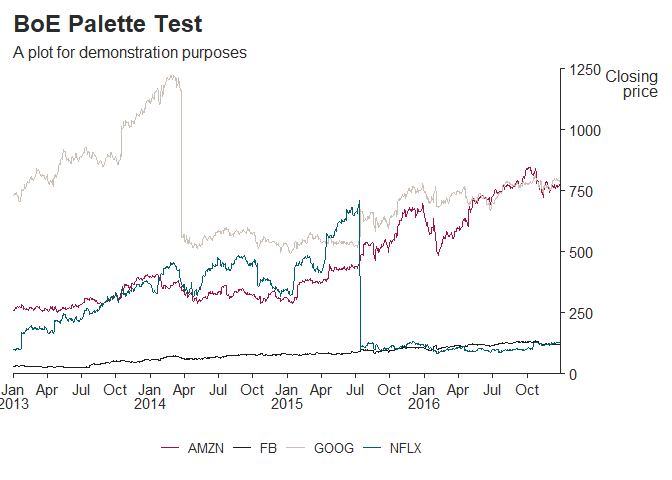
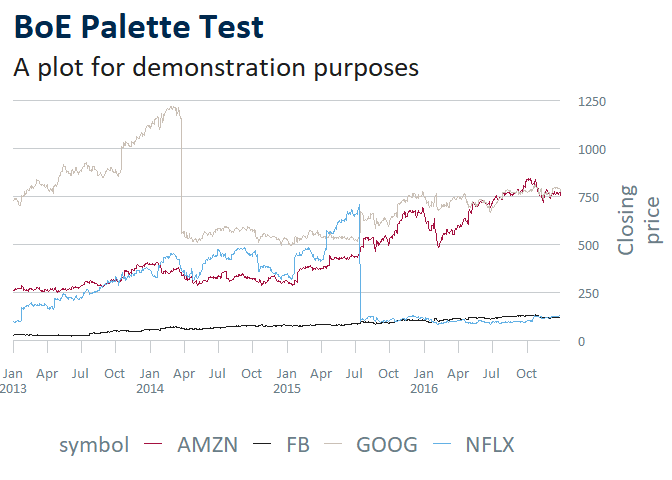
readme update

diff --git a/README.md b/README.md
@@ -23,7 +23,7 @@ Get the latest stable version of `boeCharts` by running the below code within an
 if (!require("remotes")) install.packages("remotes")
 
 # install boeCharts
-install.packages("http://collaborate/workspaces/RHelpCentre/R%20documents/Packages/boeCharts_1.0.0.zip", repos = NULL, type = "binary")
+install.packages("http://collaborate/workspaces/RHelpCentre/R%20documents/Packages/boeCharts_1.1.0.zip", repos = NULL, type = "binary")
 
 # install any missing dependencies from CRAN
 remotes::install_deps(find.package("boeCharts"))
@@ -32,7 +32,9 @@ remotes::install_deps(find.package("boeCharts"))
 Use
 ---
 
-`boeCharts` provides native support for use with [ggplot2](https://ggplot2.tidyverse.org/) (a popular R graphics library). You can use `scale_[colour|fill]_boe` functions for adopting Bank colour palettes within charts generated by `ggplot2`, and `theme_xxx` functions for applying full chart styles supported by `boeCharts`.
+`boeCharts` provides native support for use with [ggplot2](https://ggplot2.tidyverse.org/) (a popular R graphics library). You can use `scale_[colour|fill]_[continuous|discrete]_boe` functions for adopting Bank colour palettes within charts generated by `ggplot2`, and `theme_xxx` functions for applying full chart styles supported by `boeCharts`.
+
+Some quick-start examples are included below. For more detailed guidance, refer to the package [vignettes](https://tfsapp-liv/tfs/UnmanagedCollection/Shared%20Analytical%20Code/_git/boeCharts?path=%2Fvignettes&version=GBmaster&_a=contents) (included in the `boeCharts` package documentation, best viewed from within R once the package is installed).
 
 ### A minimal example
 
@@ -42,11 +44,13 @@ Here is an out-of-the-box `ggplot2` chart.
 # load ggplot2
 library(ggplot2)
 
-# vanilla chart example
-p <- ggplot(iris, aes(Sepal.Length, Sepal.Width, color = Species)) +
+# build chart
+chart <- ggplot(iris, aes(Sepal.Length, Sepal.Width, color = Species)) +
+  # jittery scatter
   geom_jitter(size = 3)
 
-p
+# print chart
+chart
 ```
 
 ![](man/figures/README-unnamed-chunk-2-1.png)
@@ -56,33 +60,40 @@ Below, the [Bank Overground](https://www.bankofengland.co.uk/bank-overground) ch
 ``` r
 # load boeCharts
 library(boeCharts)
+#> boeCharts: Bank Chart Themes and Styles for 'ggplot2'. 
+#>      For more information visit:
+#>      https://almplatform/tfs/UnmanagedCollection/Shared%20Analytical%20Code/_git/boeCharts?path=%2FREADME.md
+#> 
 
-p +
-  # Bank Overground theme
+chart <- chart +
+  # add Bank Overground theme
   theme_overground() +
-  # a "vibrant" Bank colour combination
-  scale_colour_boe(palette = "vibrantC")
+  # add a "vibrant" Bank colour combination
+  scale_colour_discrete_boe(palette = "vibrant_c")
+
+# print
+chart
 ```
 
 ![](man/figures/README-unnamed-chunk-3-1.png)
 
 ### A more in-depth example
 
-``` r
-# load packages
-library(boeCharts)
-library(ggplot2)
+Another `ggplot2` + `boeCharts` creation, this time investigating some more customization options.
 
+``` r
 # create chart
 ggplot(data = FANG, aes(x = date, y = close, colour = symbol)) +
+  # add lines, tweak line width 
   geom_line(size = 0.7) +
+  # add some chart labels
   labs(title = "BoE Palette Test",
        subtitle = "A plot for demonstration purposes",
        y = "Closing\nprice", x = NULL) +
-  # apply boe colour palette
-  scale_colour_boe() +
-  # apply an MCG publication theme
-  theme_mcg_pub(axis_text_size = 11) +
+  # add boe colour palette
+  scale_colour_discrete_boe() +
+  # add Bank Overground theme
+  theme_overground(axis_text_size = 11) +
   # apply custom axis settings
   scale_y_continuous(expand = c(0, 0), breaks = seq(0, 1250, 250), 
                      limits = c(0, 1250), position = "right") +
@@ -92,7 +103,15 @@ ggplot(data = FANG, aes(x = date, y = close, colour = symbol)) +
 
 ![](man/figures/README-example-1.png)
 
-For more detailed guidance, refer to the package [vignettes](https://tfsapp-liv/tfs/UnmanagedCollection/Shared%20Analytical%20Code/_git/boeCharts?path=%2Fvignettes&version=GBmaster&_a=contents) (also included in the `boeCharts` documentation, accessible from within R once the package is installed).
+### A disclaimer on fonts
+
+Font handling in R is tricky, partly because they are implemented differently depending on OS (e.g. Windows, Mac) and graphics device (e.g. on-screen, PDF, svg). In the latest `boeCharts` release, the "Calibri" font family (used by default in `theme_overground`) is registered with R when the package is loaded on a Windows device. However, font behaviour may change unexpectedly depending on the OS and graphics device you're using.
+
+Alternatively, here are some known libraries to consider:
+
+-   [ragg](https://ragg.r-lib.org/) - Graphic devices for R based on the AGG library
+-   [showtext](https://cran.r-project.org/web/packages/showtext/index.html) - Using Fonts More Easily in R Graphs
+-   [extrafont](https://cran.r-project.org/web/packages/extrafont/) - Tools to using fonts (most core functionality blocked on standard Bank devices)
 
 Contribute
 ----------
